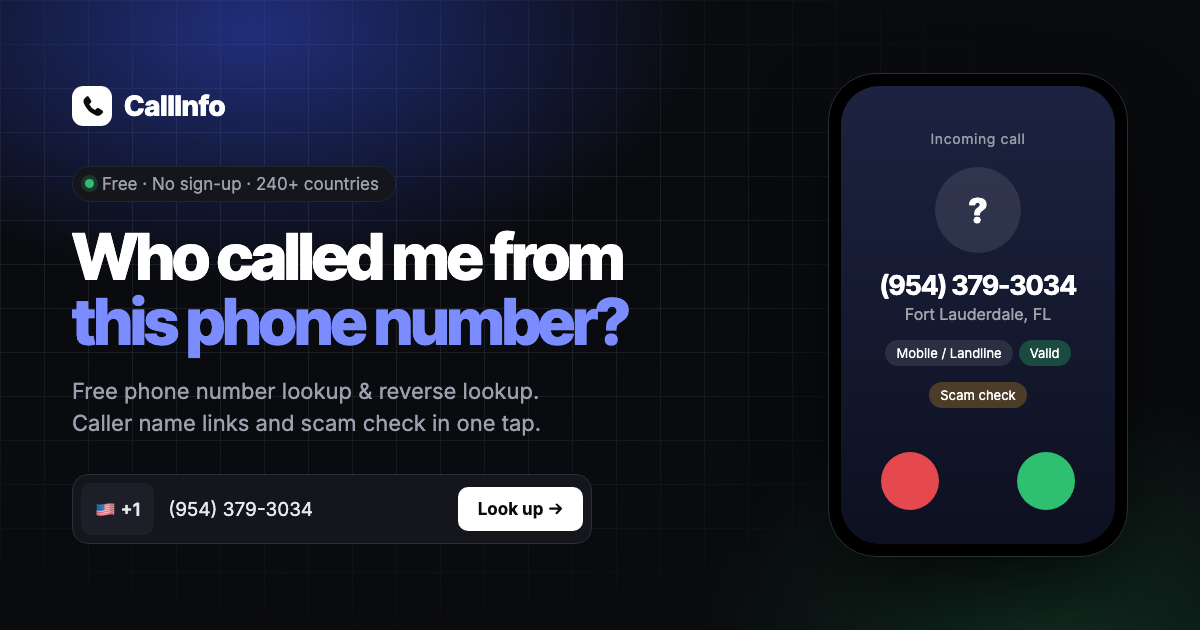
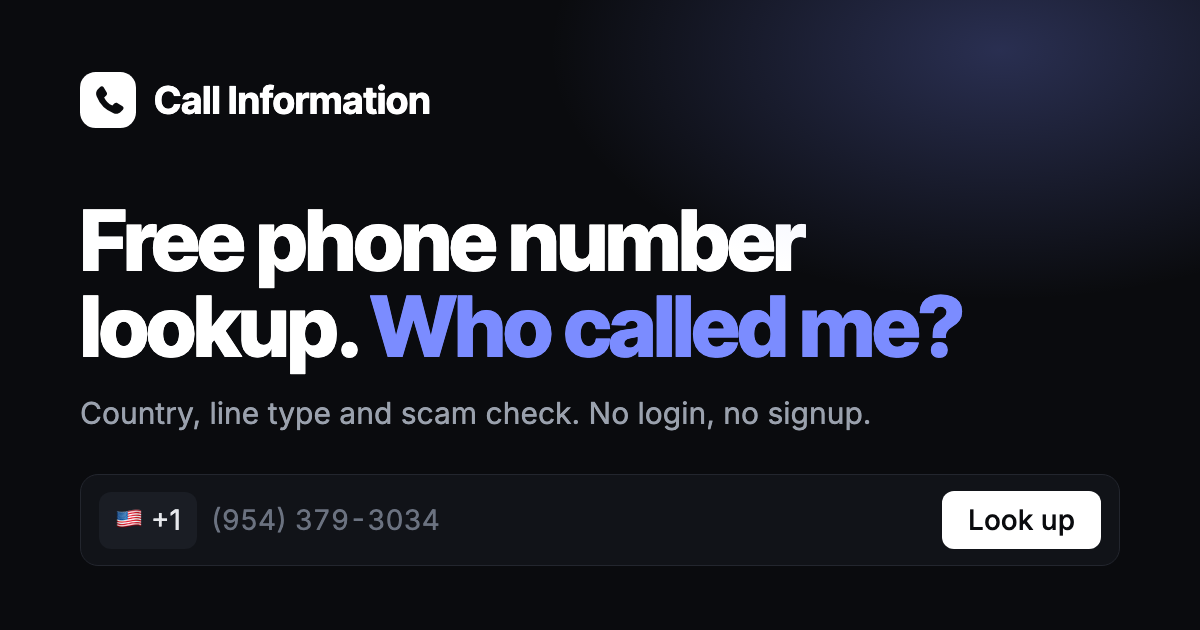
Add files via upload

diff --git a/index.html b/index.html
@@ -3,22 +3,22 @@
 <head>
   <meta charset="utf-8">
   <meta name="viewport" content="width=device-width, initial-scale=1">
-  <title>Free Phone Number Lookup – Who Called Me From This Phone Number? | CallInfo</title>
+  <title>Free Phone Number Lookup – Who Called Me From This Phone Number? | Call Information</title>
   <meta name="description" content="Free phone number lookup and free reverse phone lookup. Paste a number to see who called, where it's from, if it's a cell or landline, and whether it looks like a scam. No sign-up, works worldwide.">
   <meta name="keywords" content="free phone number lookup, phone number lookup free, who called me from this phone number, who called me from this phone number free lookup, reverse phone lookup free, free reverse phone lookup, free reverse phone lookup with name, free phone lookup, phone lookup free, telephone number lookup, google phone number lookup free, is this phone number a scammer lookup, who called, phone number, check this phone number, check phone number, number check, number check online, number search, phone number details, phone number details with name, number details, identify mobile number, landline number search, phone number search india, 411 phone number lookup, 470 phone number lookup, 954 phone number lookup, 9543793034, 88250 phone number, 6393 mobile number series, emobiletracker">
-  <meta name="author" content="CallInfo">
+  <meta name="author" content="Call Information">
   <meta name="robots" content="index, follow, max-image-preview:large, max-snippet:-1, max-video-preview:-1">
   <meta name="theme-color" content="#ffffff">
-  <link rel="canonical" href="https://yourdomain.com/">
-  <link rel="alternate" hreflang="en-us" href="https://yourdomain.com/">
-  <link rel="alternate" hreflang="x-default" href="https://yourdomain.com/">
+  <link rel="canonical" href="https://callinformation.github.io/">
+  <link rel="alternate" hreflang="en-us" href="https://callinformation.github.io/">
+  <link rel="alternate" hreflang="x-default" href="https://callinformation.github.io/">
 
   <meta property="og:type" content="website">
-  <meta property="og:site_name" content="CallInfo">
+  <meta property="og:site_name" content="Call Information">
   <meta property="og:title" content="Free Phone Number Lookup – Who Called Me?">
   <meta property="og:description" content="Paste a number, see who called. Free reverse phone lookup with scam check. No sign-up.">
-  <meta property="og:url" content="https://yourdomain.com/">
-  <meta property="og:image" content="https://yourdomain.com/og-image.png">
+  <meta property="og:url" content="https://callinformation.github.io/">
+  <meta property="og:image" content="https://callinformation.github.io/og-image.png">
   <meta property="og:image:type" content="image/png">
   <meta property="og:image:width" content="1200">
   <meta property="og:image:height" content="630">
@@ -28,7 +28,7 @@
   <meta name="twitter:card" content="summary_large_image">
   <meta name="twitter:title" content="Free Phone Number Lookup – Who Called Me?">
   <meta name="twitter:description" content="Paste a number, see who called. Free, no sign-up.">
-  <meta name="twitter:image" content="https://yourdomain.com/og-image.png">
+  <meta name="twitter:image" content="https://callinformation.github.io/og-image.png">
   <meta name="twitter:image:alt" content="Free phone number lookup: who called me from this phone number?">
 
   <link rel="icon" href="favicon.svg" type="image/svg+xml">
@@ -42,9 +42,9 @@
   {
     "@context": "https://schema.org",
     "@type": "WebApplication",
-    "name": "CallInfo – Free Phone Number Lookup",
+    "name": "Call Information – Free Phone Number Lookup",
     "alternateName": ["Free Reverse Phone Lookup", "Who Called Me From This Phone Number"],
-    "url": "https://yourdomain.com/",
+    "url": "https://callinformation.github.io/",
     "applicationCategory": "UtilitiesApplication",
     "operatingSystem": "Any",
     "browserRequirements": "Requires JavaScript",
@@ -89,9 +89,9 @@
 <body>
   <header class="nav-wrap">
     <div class="nav">
-      <a href="#" class="logo" aria-label="CallInfo home">
+      <a href="#" class="logo" aria-label="Call Information home">
         <svg viewBox="0 0 32 32" width="28" height="28" aria-hidden="true"><rect width="32" height="32" rx="9" fill="var(--ink)"/><path d="M11.5 8.5c.6-.6 1.6-.5 2 .2l1.7 2.8c.4.6.3 1.4-.2 1.9l-1.2 1.1a9.6 9.6 0 0 0 4.7 4.7l1.1-1.2c.5-.5 1.3-.6 1.9-.2l2.8 1.7c.7.4.8 1.4.2 2l-1.3 1.3c-1 1-2.6 1.3-4 .7A17 17 0 0 1 9.5 13.8c-.6-1.4-.3-3 .7-4z" fill="var(--bg)"/></svg>
-        <span>CallInfo</span>
+        <span>Call Information</span>
       </a>
       <nav aria-label="Primary">
         <a href="#lookup">Reverse lookup</a>
@@ -388,7 +388,7 @@
   </main>
 
   <footer class="foot wrap">
-    <a href="#" class="logo small"><span>CallInfo</span></a>
+    <a href="#" class="logo small"><span>Call Information</span></a>
     <nav class="foot-links" aria-label="Footer">
       <a href="#lookup">Free reverse phone lookup</a>
       <a href="#scam">Scam number check</a>
@@ -396,7 +396,7 @@
       <a href="#worldwide">Number search worldwide</a>
       <a href="#faq">FAQ</a>
     </nav>
-    <p>© <span id="yr"></span> CallInfo</p>
+    <p>© <span id="yr"></span> Call Information</p>
   </footer>
 
   <script src="https://cdn.jsdelivr.net/npm/libphonenumber-js@1.11.4/bundle/libphonenumber-max.js" defer></script>
